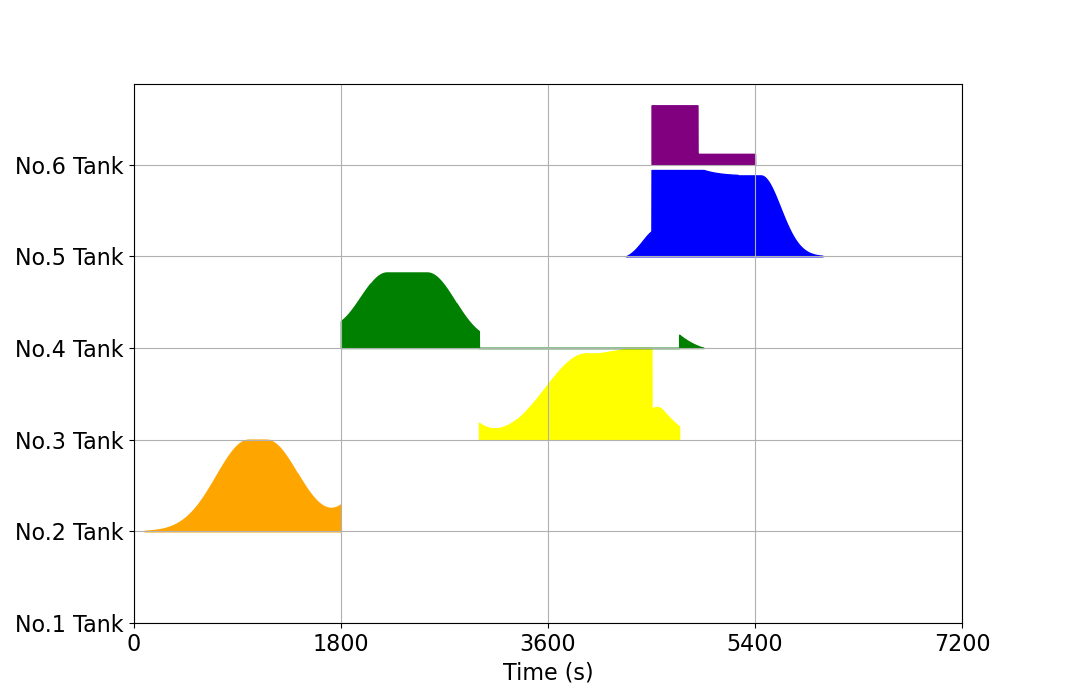
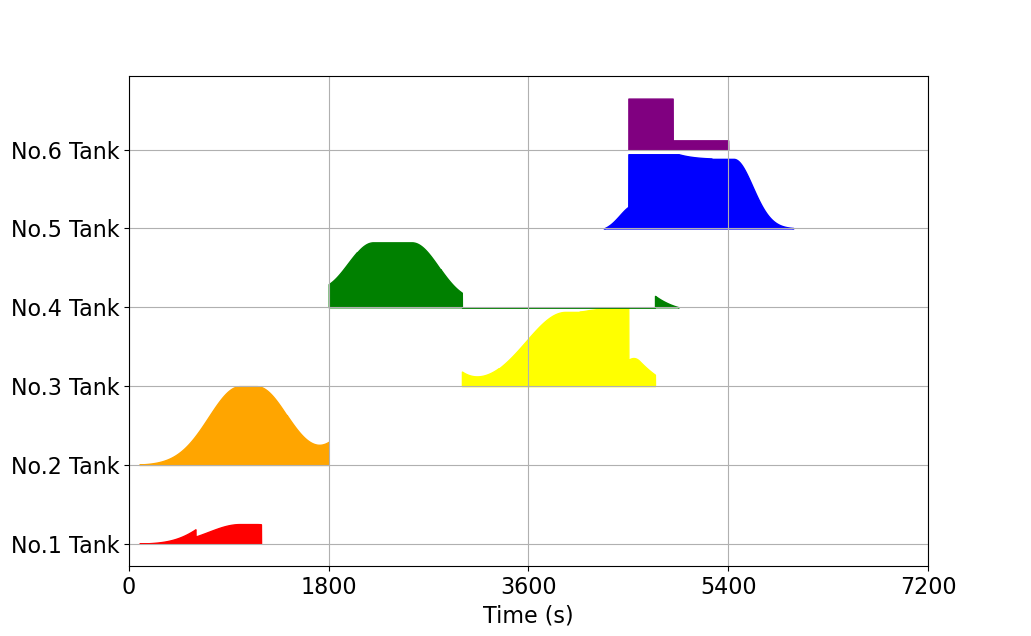
Update Problem2 Oil Figure

diff --git a/Problem4.py b/Problem4.py
@@ -10,49 +10,30 @@ import BaryCenter
 from Point import Point3d, distance3d
 
 
-# max_distance = 0.06760845436211564
-
+# max_distance = 0.06963137125681296
 
 def plot_oil() -> None:
-    data = pd.read_excel("Results.xlsx", "第二问结果").values
+    data = pd.read_excel("Results.xlsx", "第四问结果").values[:, :7]
     x, y = [[], [], [], [], [], [], []], [[], [], [], [], [], [], []]
-    scale = 1.7
+    scale = 1.8
     for time, s1, s2, s3, s4, s5, s6 in data:
         time = int(time)
-        if (len(y[1]) > 0 and y[1][-1] == 1) and s1 > 0:
-            x[1].append(time)
-            y[1].append(1)
-        if (len(y[2]) > 0 and y[2][-1] == 2) and s2 > 0:
-            x[2].append(time)
-            y[2].append(2)
-        if (len(y[3]) > 0 and y[3][-1] == 3) and s3 > 0:
-            x[3].append(time)
-            y[3].append(3)
-        if (len(y[4]) > 0 and y[4][-1] == 4) and s4 > 0:
-            x[4].append(time)
-            y[4].append(4)
-        if (len(y[5]) > 0 and y[5][-1] == 5) and s5 > 0:
-            x[5].append(time)
-            y[5].append(5)
-        if (len(y[6]) > 0 and y[6][-1] == 6) and s6 > 0:
-            x[6].append(time)
-            y[6].append(6)
-        if (len(y[1]) > 0 and y[1][-1] > 1) or s1 > 0:
+        if s1 > 0:
             x[1].append(time)
             y[1].append(1 + s1 / scale)
-        if (len(y[2]) > 0 and y[2][-1] > 2) or s2 > 0:
+        if s2 > 0:
             x[2].append(time)
             y[2].append(2 + s2 / scale)
-        if (len(y[3]) > 0 and y[3][-1] > 3) or s3 > 0:
+        if s3 > 0:
             x[3].append(time)
             y[3].append(3 + s3 / scale)
-        if (len(y[4]) > 0 and y[4][-1] > 4) or s4 > 0:
+        if s4 > 0:
             x[4].append(time)
             y[4].append(4 + s4 / scale)
-        if (len(y[5]) > 0 and y[5][-1] > 5) or s5 > 0:
+        if s5 > 0:
             x[5].append(time)
             y[5].append(5 + s5 / scale)
-        if (len(y[6]) > 0 and y[6][-1] > 6) or s6 > 0:
+        if s6 > 0:
             x[6].append(time)
             y[6].append(6 + s6 / scale)
 
@@ -72,7 +53,7 @@ def plot_oil() -> None:
 
 
 def plot_oil_main_tank() -> None:
-    data = pd.read_excel("Results.xlsx", "第二问结果").values
+    data = pd.read_excel("Results.xlsx", "第四问结果").values[:, :7]
     x, y = [], []
     for time, s1, s2, s3, s4, s5, s6 in data:
         time = int(time)
@@ -117,18 +98,18 @@ def plot_track(ideal_barycenters_np: np.array, real_barycenters_np: np.array = N
     if real_barycenters_np is not None:
         plot_one_track(real_barycenters_np, "yellow", "Real")
 
-    ax.set_xlabel('X', fontsize=16)
-    ax.set_ylabel('Y', fontsize=16)
-    ax.set_zlabel('Z', fontsize=16)
-    ax.set_xlim([-2.0, 0.0])
-    ax.set_xticks([-2.0, -1.6, -1.2, -0.8, -0.4, 0.0])
-    ax.set_xticklabels([-2.0, -1.6, -1.2, -0.8, -0.4, 0.0], fontsize=16)
-    ax.set_ylim([-1.0, 1.0])
-    ax.set_yticks([-1.0, -0.6, -0.2, 0.2, 0.6, 1.0])
-    ax.set_yticklabels([-1.0, -0.6, -0.2, 0.2, 0.6, 1.0], fontsize=16)
-    ax.set_zlim([-0.4, 1.6])
-    ax.set_zticks([-0.4, 0.0, 0.4, 0.8, 1.2, 1.6])
-    ax.set_zticklabels([-0.4, 0.0, 0.4, 0.8, 1.2, 1.6], fontsize=16)
+    # ax.set_xlabel('X', fontsize=16)
+    # ax.set_ylabel('Y', fontsize=16)
+    # ax.set_zlabel('Z', fontsize=16)
+    ax.set_xlim([-0.8, 0.8])
+    ax.set_xticks([-0.8, -0.6, -0.4, -0.2, 0.0, 0.2, 0.4, 0.6, 0.8])
+    ax.set_xticklabels([-0.8, -0.6, -0.4, -0.2, 0.0, 0.2, 0.4, 0.6, 0.8], fontsize=16)
+    ax.set_ylim([-0.6, 1.0])
+    ax.set_yticks([-0.6, -0.4, -0.2, 0.0, 0.2, 0.4, 0.6, 0.8, 1.0])
+    ax.set_yticklabels([-0.6, -0.4, -0.2, 0.0, 0.2, 0.4, 0.6, 0.8, 1.0], fontsize=16)
+    ax.set_zlim([-0.8, 0.8])
+    ax.set_zticks([-0.8, -0.6, -0.4, -0.2, 0.0, 0.2, 0.4, 0.6, 0.8])
+    ax.set_zticklabels([-0.8, -0.6, -0.4, -0.2, 0.0, 0.2, 0.4, 0.6, 0.8], fontsize=16)
     ax.legend(loc="upper left", fontsize=16)
 
     plt.show()
@@ -159,40 +140,34 @@ def evaluate_oil_plan(time: int, ideal_oil_consume_mass: float, rest_oil_mass_np
     real_oil_consume_mass_np = np.zeros(6)
 
     # TODO: edit oil plan
-    if time <= 600:
-        oil_output_from(2, ideal_oil_consume_mass)
-        oil_output_from(1, ideal_oil_consume_mass * 0.5)
-        if not is_meet_oil_need():
-            oil_output_from(4, oil_still_need_mass())
-    elif time <= 1800:
-        oil_output_from(2, ideal_oil_consume_mass)
-        oil_output_from(1, ideal_oil_consume_mass * 0.25)
-        if not is_meet_oil_need():
-            oil_output_from(4, oil_still_need_mass())
-    elif time <= 3000:
+    if time <= 2020:
         oil_output_from(4, ideal_oil_consume_mass)
         if not is_meet_oil_need():
             oil_output_from(2, oil_still_need_mass())
-    elif time <= 4500:
-        oil_output_from(3, ideal_oil_consume_mass)
+    elif time <= 2400:
+        oil_output_from(5, ideal_oil_consume_mass)
+        oil_output_from(6, ideal_oil_consume_mass * 0.5)
         if not is_meet_oil_need():
-            oil_output_from(5, oil_still_need_mass())
-    elif time <= 4900:
-        oil_output_from(5, oil_still_need_mass())
-        oil_output_from(6, 1.1)
-        if not is_meet_oil_need() and time <= 4740:
             oil_output_from(3, oil_still_need_mass())
-        if not is_meet_oil_need() and time > 4740:
-            oil_output_from(4, oil_still_need_mass())
-    elif time <= 5400:
-        oil_output_from(5, oil_still_need_mass())
-        oil_output_from(6, 0.2)
+    elif time <= 3300:
+        oil_output_from(5, ideal_oil_consume_mass)
         if not is_meet_oil_need():
-            oil_output_from(4, oil_still_need_mass() * (1 + 1e-8))
+            oil_output_from(3, oil_still_need_mass())
+    elif time <= 4000:
+        if time <= 3600:
+            oil_output_from(2, ideal_oil_consume_mass * (0.6 + (time - 3300) / 300 * 0.4))
+        elif time <= 4000:
+            oil_output_from(2, ideal_oil_consume_mass)
+            oil_output_from(6, ideal_oil_consume_mass * max(0.0, 1.0 - (time - 3600) / 700 * 2.0))
+        if not is_meet_oil_need():
+            oil_output_from(5, oil_still_need_mass() + 1e-8)
+    elif time <= 4300:
+        oil_output_from(2, ideal_oil_consume_mass)
+        oil_output_from(1, ideal_oil_consume_mass * 0.5)
+        if not is_meet_oil_need():
+            oil_output_from(3, oil_still_need_mass())
     elif time <= 7200:
-        oil_output_from(5, oil_still_need_mass())
-        if not is_meet_oil_need():
-            oil_output_from(4, oil_still_need_mass() + 1e-10)
+        oil_output_from(3, ideal_oil_consume_mass * 2)
 
     if not is_meet_oil_need():
         raise ValueError("Real Oil < Ideal Oil")
@@ -200,9 +175,10 @@ def evaluate_oil_plan(time: int, ideal_oil_consume_mass: float, rest_oil_mass_np
     return real_oil_consume_mass_np
 
 
-def calc(ideal_barycenters_np: np.array, ideal_oil_consume_mass_np: np.array) -> np.array:
+def calc(ideal_barycenters_np: np.array, ideal_oil_consume_mass_np: np.array, angle_np: np.array) -> np.array:
     real_barycenters_list = []
-    rest_oil_mass_np = np.array(Aircraft.OIL_TANK_INIT_OIL_MASS)
+    # OIL_TANK_INIT_OIL_VOLUME (0.405, 1.936, 2.376, 2.652, 2.88, 1.2)
+    rest_oil_mass_np = np.array([0.4, 1.9, 2.3, 2.6, 2.8, 1.2]) * Aircraft.OIL_DENSITY_KGpm3
     max_distance = 0.0
     angle = 0.0
     for time in range(7200):
@@ -228,6 +204,10 @@ def calc(ideal_barycenters_np: np.array, ideal_oil_consume_mass_np: np.array) ->
                                                                 [mass_oil, Aircraft.AIRCRAFT_NET_WEIGHT])
         real_barycenters_list.append([real_barycenter.x, real_barycenter.y, real_barycenter.z])
         # print(f"{time:d}\t{real_barycenter.x}\t{real_barycenter.y}\t{real_barycenter.z}")
+
+        oil_consume_mass_np[1] += oil_consume_mass_np[0]
+        oil_consume_mass_np[4] += oil_consume_mass_np[5]
+        # print(f"{time:d}\t{rest_oil_mass_np}\t{oil_consume_mass_np}")
         print(f"{time:d}\t{oil_consume_mass_np.tolist()}")
 
         distance = distance3d(ideal_barycenter, real_barycenter)
@@ -240,12 +220,13 @@ def calc(ideal_barycenters_np: np.array, ideal_oil_consume_mass_np: np.array) ->
 
 
 if __name__ == '__main__':
-    # data_ = pd.read_excel("data.xlsx", "Problem2").values
-    # np.set_printoptions(precision=3)
-    # ideal_barycenters_np_ = data_[:, 1:4]
-    # ideal_oil_consume_mass_np_ = data_[:, 4]
-    # # plot_track(ideal_barycenters_np_, None)
-    # real_barycenters_np_ = calc(ideal_barycenters_np_, ideal_oil_consume_mass_np_)
-    # plot_track(ideal_barycenters_np_[:real_barycenters_np_.shape[0]], real_barycenters_np_)
-    plot_oil()
+    data_ = pd.read_excel("data.xlsx", "Problem3").values
+    np.set_printoptions(precision=3)
+    ideal_barycenters_np_ = np.zeros((7200, 3), dtype=np.float64)
+    angle_np_ = data_[:, 1]
+    ideal_oil_consume_mass_np_ = data_[:, 2]
+    # plot_track(ideal_barycenters_np_, None)
+    real_barycenters_np_ = calc(ideal_barycenters_np_, ideal_oil_consume_mass_np_, angle_np_)
+    plot_track(ideal_barycenters_np_[:real_barycenters_np_.shape[0]], real_barycenters_np_)
+    # plot_oil()
     # plot_oil_main_tank()
